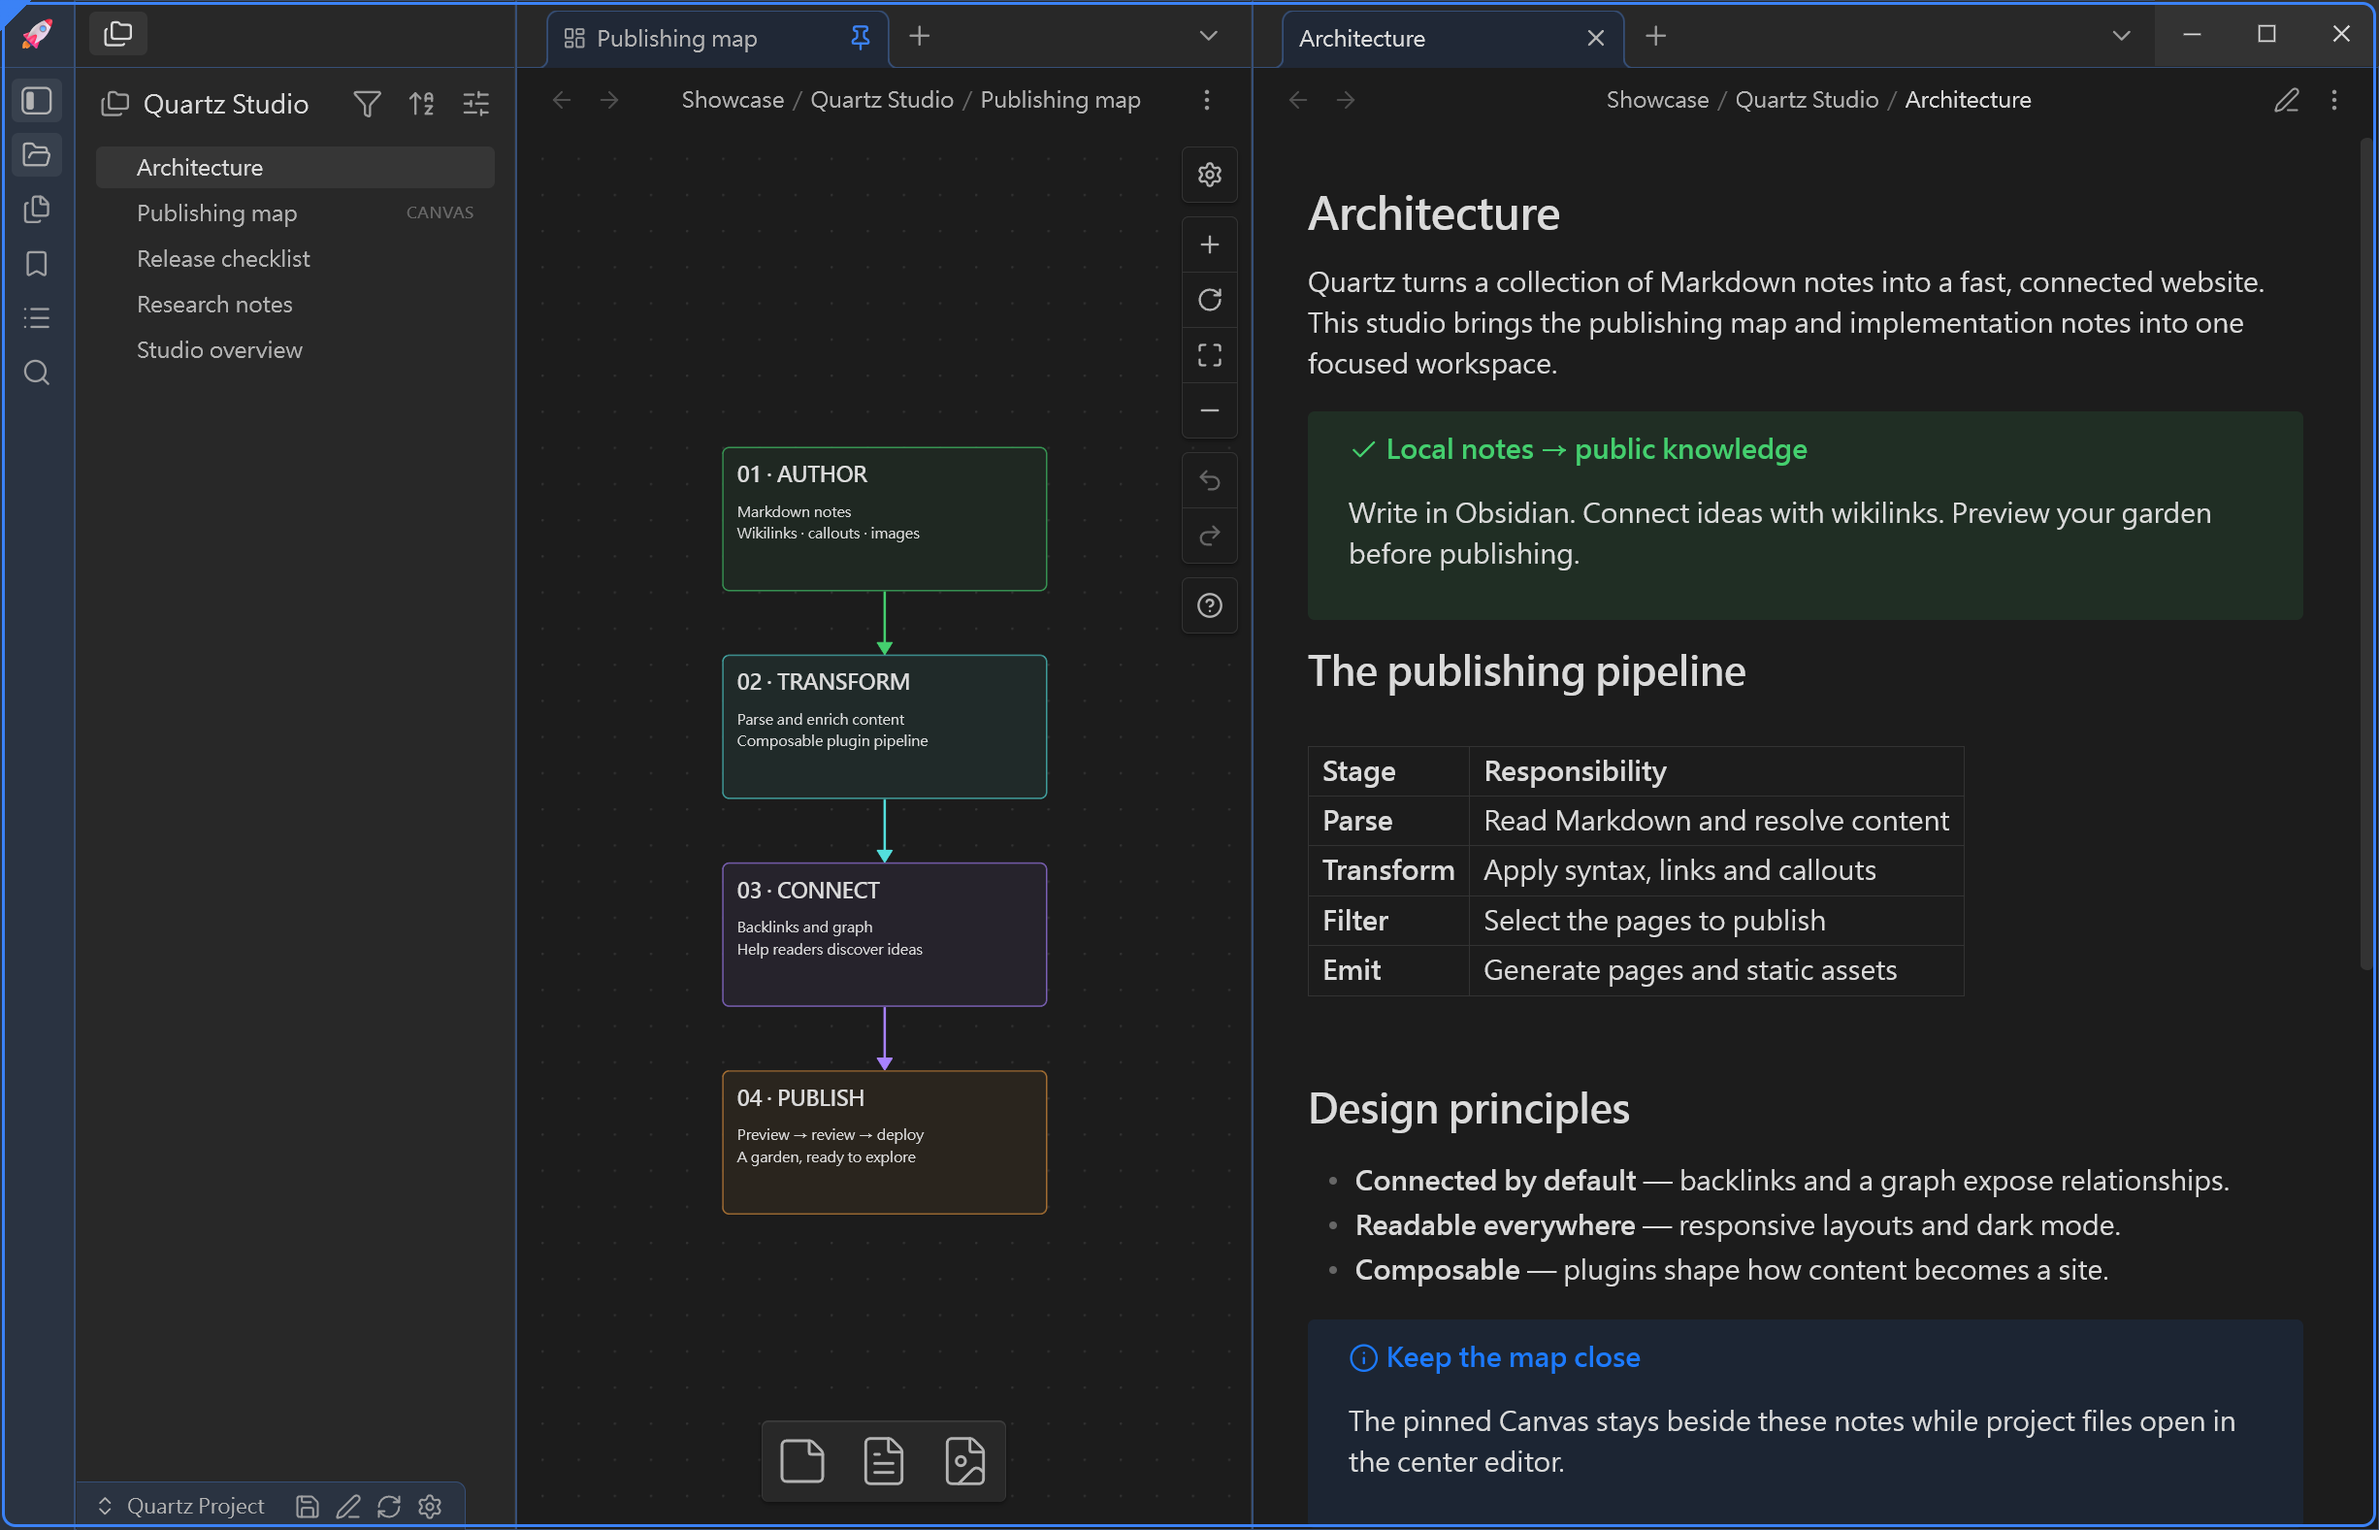
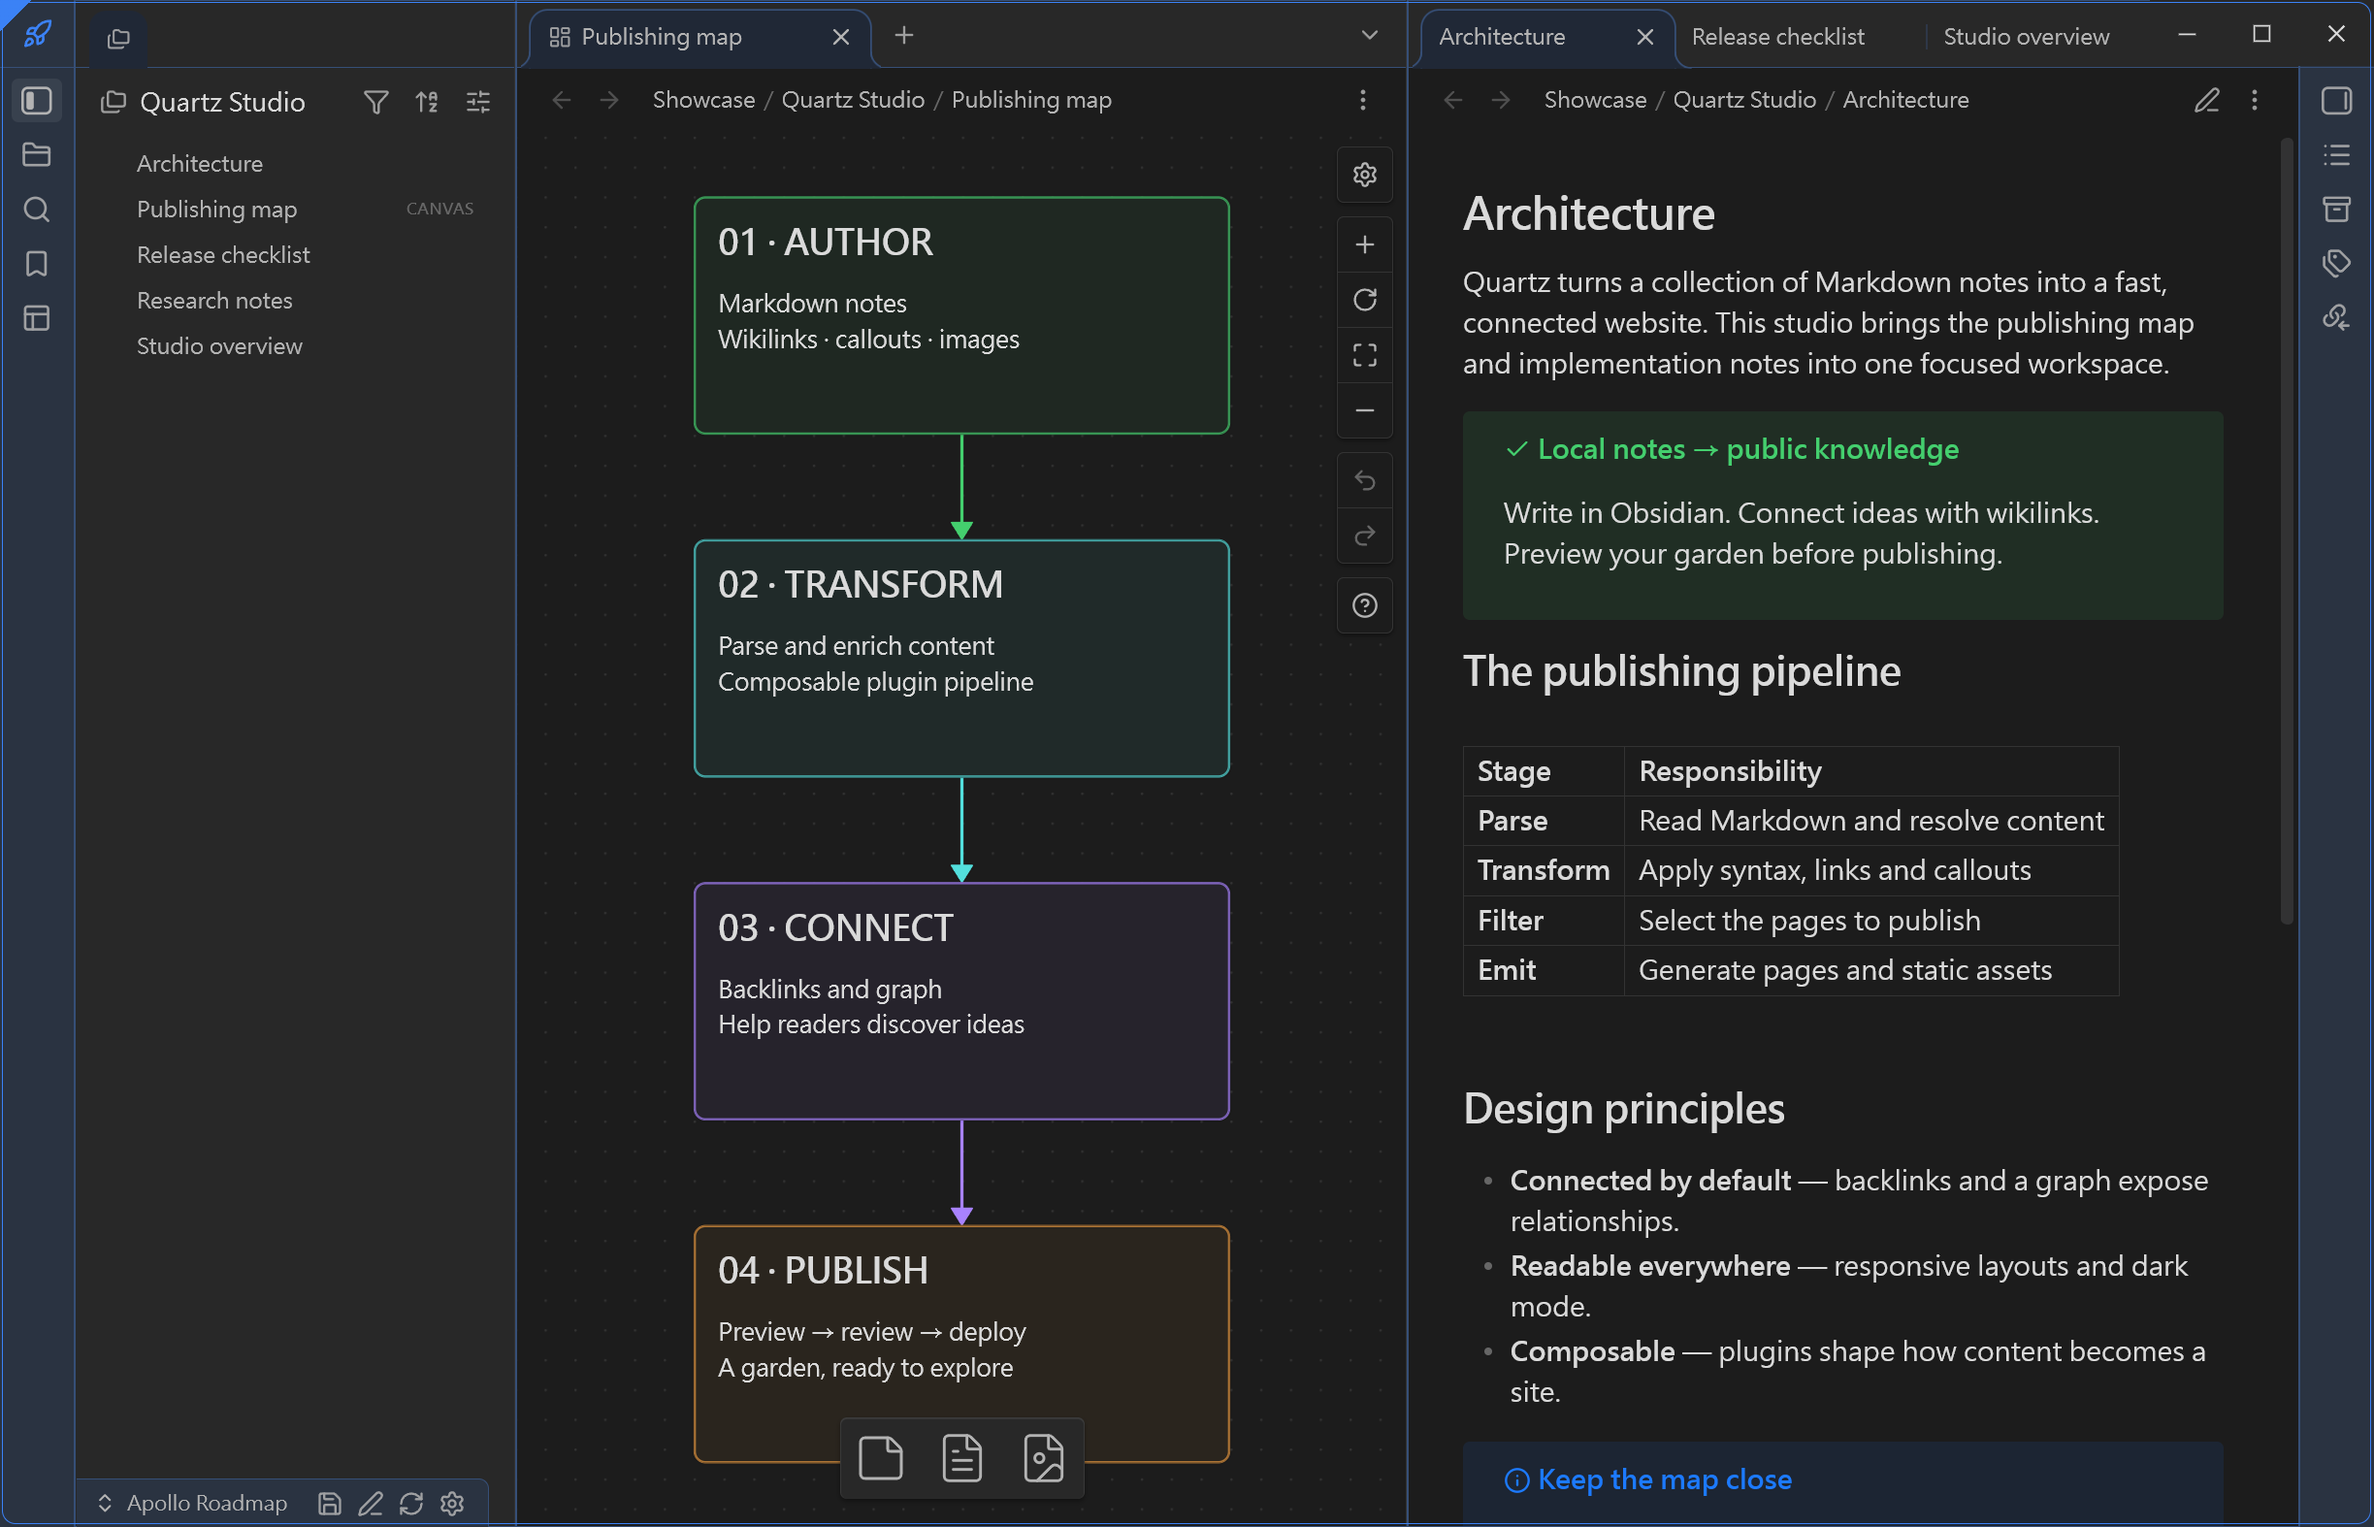
docs: unify README badges and refresh demo screenshots
Add Platform badge, switch to flat-square style, and update screenshots 01/02/03/04/06/07 with the seven demo Spaces.

diff --git a/README.zh-CN.md b/README.zh-CN.md
@@ -5,10 +5,11 @@
 > **告别拥挤的主窗口。将重量级插件与多元工作流，无痛迁移至独立、专注的 Popout 弹出式窗口工作舱。**  
 > *独立窗口布局 · Popout 原生活动栏 · Folder Spaces 协同 · 主题边框与视觉标识*
 
-[![Obsidian Downloads](https://img.shields.io/badge/dynamic/json?logo=obsidian&color=7C3AED&label=Downloads&query=%24%5B%27window-spaces%27%5D.downloads&url=https%3A%2F%2Fraw.githubusercontent.com%2Fobsidianmd%2Fobsidian-releases%2Fmaster%2Fcommunity-plugin-stats.json)](https://obsidian.md/plugins?id=window-spaces)
-[![GitHub Release](https://img.shields.io/github/v/release/edwardsayer/obsidian-window-spaces?color=blue&logo=github)](https://github.com/edwardsayer/obsidian-window-spaces/releases)
-[![Obsidian Compatibility](https://img.shields.io/badge/Obsidian-v1.13.0%2B-purple.svg?logo=obsidian)](https://obsidian.md)
-[![License: MIT](https://img.shields.io/badge/License-MIT-yellow.svg)](https://opensource.org/licenses/MIT)
+[![Downloads](https://img.shields.io/badge/dynamic/json?style=flat-square&logo=obsidian&color=7C3AED&label=Downloads&query=%24%5B%27window-spaces%27%5D.downloads&url=https%3A%2F%2Fraw.githubusercontent.com%2Fobsidianmd%2Fobsidian-releases%2Fmaster%2Fcommunity-plugin-stats.json)](https://obsidian.md/plugins?id=window-spaces)
+[![Release](https://img.shields.io/github/v/release/edwardsayer/obsidian-window-spaces?style=flat-square&logo=github)](https://github.com/edwardsayer/obsidian-window-spaces/releases)
+[![Obsidian Min Version](https://img.shields.io/badge/Obsidian-1.13.0%2B-purple?style=flat-square&logo=obsidian)](https://obsidian.md)
+[![Platform](https://img.shields.io/badge/Platform-Desktop%20only-lightgrey?style=flat-square)](#-系统兼容性)
+[![License](https://img.shields.io/badge/License-MIT-blue?style=flat-square)](LICENSE)
 
 [ English ](README.md) | [ 繁體中文 ](README.zh-TW.md) | [ 简体中文 ](README.zh-CN.md)
 

diff --git a/README.zh-TW.md b/README.zh-TW.md
@@ -5,10 +5,11 @@
 > **解放擁擠的主視窗。將重量級外掛與多元工作流，無痛遷移至獨立、專注的 Popout 彈出式視窗工作艙。**  
 > *獨立視窗佈局 · Popout 原生活動列 · Folder Spaces 協同 · 主題邊框與視覺標識*
 
-[![Obsidian Downloads](https://img.shields.io/badge/dynamic/json?logo=obsidian&color=7C3AED&label=Downloads&query=%24%5B%27window-spaces%27%5D.downloads&url=https%3A%2F%2Fraw.githubusercontent.com%2Fobsidianmd%2Fobsidian-releases%2Fmaster%2Fcommunity-plugin-stats.json)](https://obsidian.md/plugins?id=window-spaces)
-[![GitHub Release](https://img.shields.io/github/v/release/edwardsayer/obsidian-window-spaces?color=blue&logo=github)](https://github.com/edwardsayer/obsidian-window-spaces/releases)
-[![Obsidian Compatibility](https://img.shields.io/badge/Obsidian-v1.13.0%2B-purple.svg?logo=obsidian)](https://obsidian.md)
-[![License: MIT](https://img.shields.io/badge/License-MIT-yellow.svg)](https://opensource.org/licenses/MIT)
+[![Downloads](https://img.shields.io/badge/dynamic/json?style=flat-square&logo=obsidian&color=7C3AED&label=Downloads&query=%24%5B%27window-spaces%27%5D.downloads&url=https%3A%2F%2Fraw.githubusercontent.com%2Fobsidianmd%2Fobsidian-releases%2Fmaster%2Fcommunity-plugin-stats.json)](https://obsidian.md/plugins?id=window-spaces)
+[![Release](https://img.shields.io/github/v/release/edwardsayer/obsidian-window-spaces?style=flat-square&logo=github)](https://github.com/edwardsayer/obsidian-window-spaces/releases)
+[![Obsidian Min Version](https://img.shields.io/badge/Obsidian-1.13.0%2B-purple?style=flat-square&logo=obsidian)](https://obsidian.md)
+[![Platform](https://img.shields.io/badge/Platform-Desktop%20only-lightgrey?style=flat-square)](#-系統相容性)
+[![License](https://img.shields.io/badge/License-MIT-blue?style=flat-square)](LICENSE)
 
 [ English ](README.md) | [ 繁體中文 ](README.zh-TW.md) | [ 简体中文 ](README.zh-CN.md)
 

diff --git a/README.md b/README.md
@@ -5,10 +5,11 @@
 > **Transform bare popouts into dedicated, distraction-free workstations.**  
 > *Per-Window Layouts · Native Popout Activity Bars · Folder Spaces Synergy · Accent Identity Frames*
 
-[![Obsidian Downloads](https://img.shields.io/badge/dynamic/json?logo=obsidian&color=7C3AED&label=Downloads&query=%24%5B%27window-spaces%27%5D.downloads&url=https%3A%2F%2Fraw.githubusercontent.com%2Fobsidianmd%2Fobsidian-releases%2Fmaster%2Fcommunity-plugin-stats.json)](https://obsidian.md/plugins?id=window-spaces)
-[![GitHub Release](https://img.shields.io/github/v/release/edwardsayer/obsidian-window-spaces?color=blue&logo=github)](https://github.com/edwardsayer/obsidian-window-spaces/releases)
-[![Obsidian Compatibility](https://img.shields.io/badge/Obsidian-v1.13.0%2B-purple.svg?logo=obsidian)](https://obsidian.md)
-[![License: MIT](https://img.shields.io/badge/License-MIT-yellow.svg)](https://opensource.org/licenses/MIT)
+[![Downloads](https://img.shields.io/badge/dynamic/json?style=flat-square&logo=obsidian&color=7C3AED&label=Downloads&query=%24%5B%27window-spaces%27%5D.downloads&url=https%3A%2F%2Fraw.githubusercontent.com%2Fobsidianmd%2Fobsidian-releases%2Fmaster%2Fcommunity-plugin-stats.json)](https://obsidian.md/plugins?id=window-spaces)
+[![Release](https://img.shields.io/github/v/release/edwardsayer/obsidian-window-spaces?style=flat-square&logo=github)](https://github.com/edwardsayer/obsidian-window-spaces/releases)
+[![Obsidian Min Version](https://img.shields.io/badge/Obsidian-1.13.0%2B-purple?style=flat-square&logo=obsidian)](https://obsidian.md)
+[![Platform](https://img.shields.io/badge/Platform-Desktop%20only-lightgrey?style=flat-square)](#-system-compatibility)
+[![License](https://img.shields.io/badge/License-MIT-blue?style=flat-square)](LICENSE)
 
 [ English ](README.md) | [ 繁體中文 ](README.zh-TW.md) | [ 简体中文 ](README.zh-CN.md)
 
